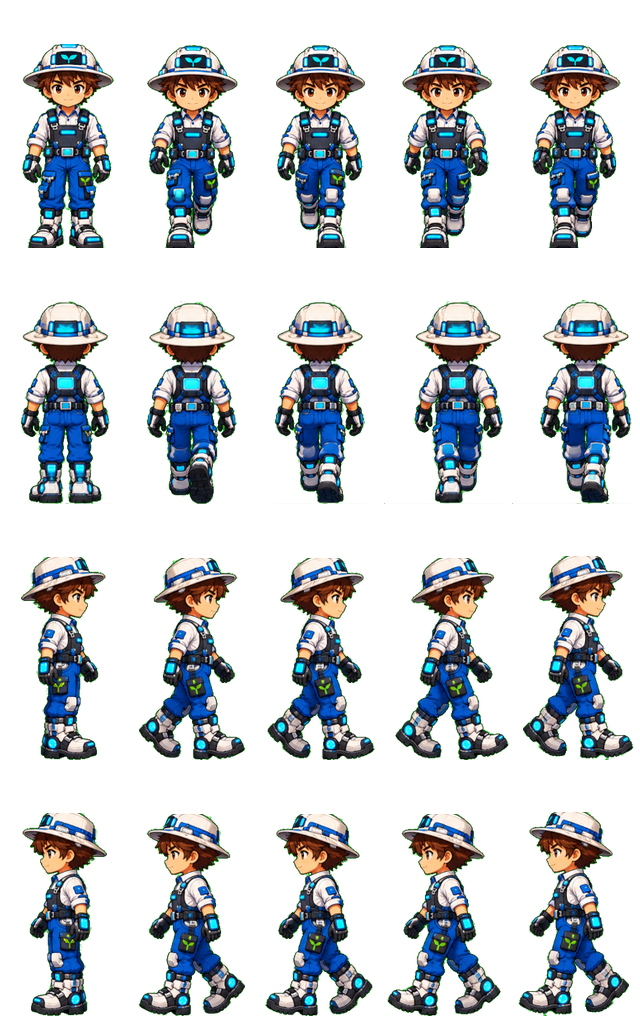
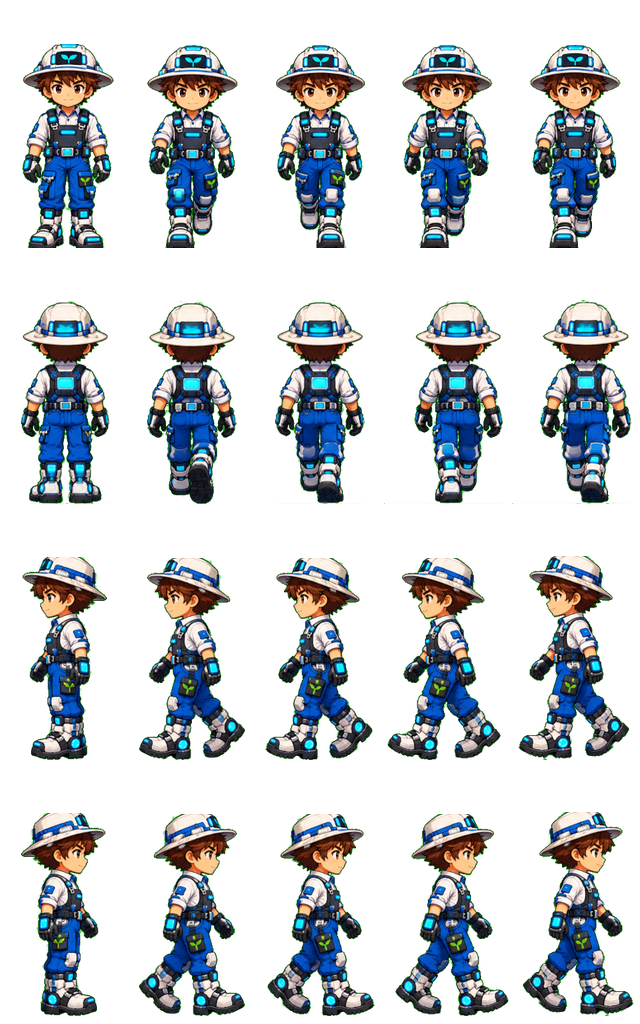
Fix playtest issues: backward walking, pond, hotbar contrast, no direction at start
- Player sheets: left/right rows were swapped (Nir's side views face left);
  pack tool now defaults to --side-faces left
- Pond rebuilt from one water texture (generated pond.png from Nir's shore
  tiles) with even banks; collision follows the water
- Hotbar slots and energy bar get a solid backing, so blue tiles don't blend
- New game starts with an opening story; a goal panel (data/objectives.json)
  and an arrow next to the player point to the next step, across maps

diff --git a/data/README.md b/data/README.md
@@ -88,6 +88,12 @@ The current story setup:
 | Inventor | Farm, on the path | `inventor_visit` (auto) | From day 4, until `inventor_deal_accepted` |
 | Inventor | Village workshop | `inventor_repeat` | After `inventor_deal_accepted` |
 
+## Goals (`objectives.json`) and the opening (`dialogue/opening.json`)
+
+`objectives.json` is the list of goals shown at the top left, in order: the first goal whose `done_flag` isn't set yet is shown, and a yellow arrow next to the player points to its `target` (an NPC role or a node name) in its `map`, or to the exit leading there. Flags come from the dialogue sheet (Quest_Flag / Effect) or from the game (`first_crop_planted`, `first_sleep`, `opening_seen`). Add, remove or reorder goals freely.
+
+`dialogue/opening.json` is the short story shown when a new game starts. It's a placeholder written from `docs/Game story.docx`; the story lead can rewrite it.
+
 ## NPC names (`npcs.json`)
 
 The names players see for each NPC role: `"Village Chief": "Arthur"`. The dialogue sheet keeps using roles in its Speaker and NPC_Name columns; the game shows the names above the NPCs and in the dialogue box. Portraits stay named by role (`village_chief.png`). Dialogue text can use `{player}` (the name the player typed), `{buyback_price}` and `{days_remaining}`.

diff --git a/assets/ASSET_CHECKLIST.md b/assets/ASSET_CHECKLIST.md
@@ -82,7 +82,8 @@ Shown on the avatar selection screen and next to the speaker in conversations.
 - [x] `dirt_path.png` (3×3 set)
 - [x] `water.png`; `water_grass.png` and `water_grass_corner.png` give the pond a grass shore (rotated for every side)
 - [ ] A plain water tile in the same deep blue as the shore tiles (the pond's middle uses the closest tiles from `water.png`, which are a little lighter and wavier)
-- [ ] 4 inside-corner tiles for paths and the shore (grass in just one corner)
+- [x] `pond.png`: generated from `water_grass(_corner).png` (plain water, every edge and corner) so the whole pond uses one water texture
+- [ ] 4 inside-corner tiles for paths and the shore (grass in just one corner, with a curved bank); until then the pond has to stay rectangular
 - [ ] `soil_dry.png`, `soil_wet.png`: `soil_wet` shows a seam when repeated
 - [x] Stored for later: `dirt_path_grass(_corner).png`, `paved_path_grass(_corner).png`; a plain paving centre tile is still needed for paved areas
 
